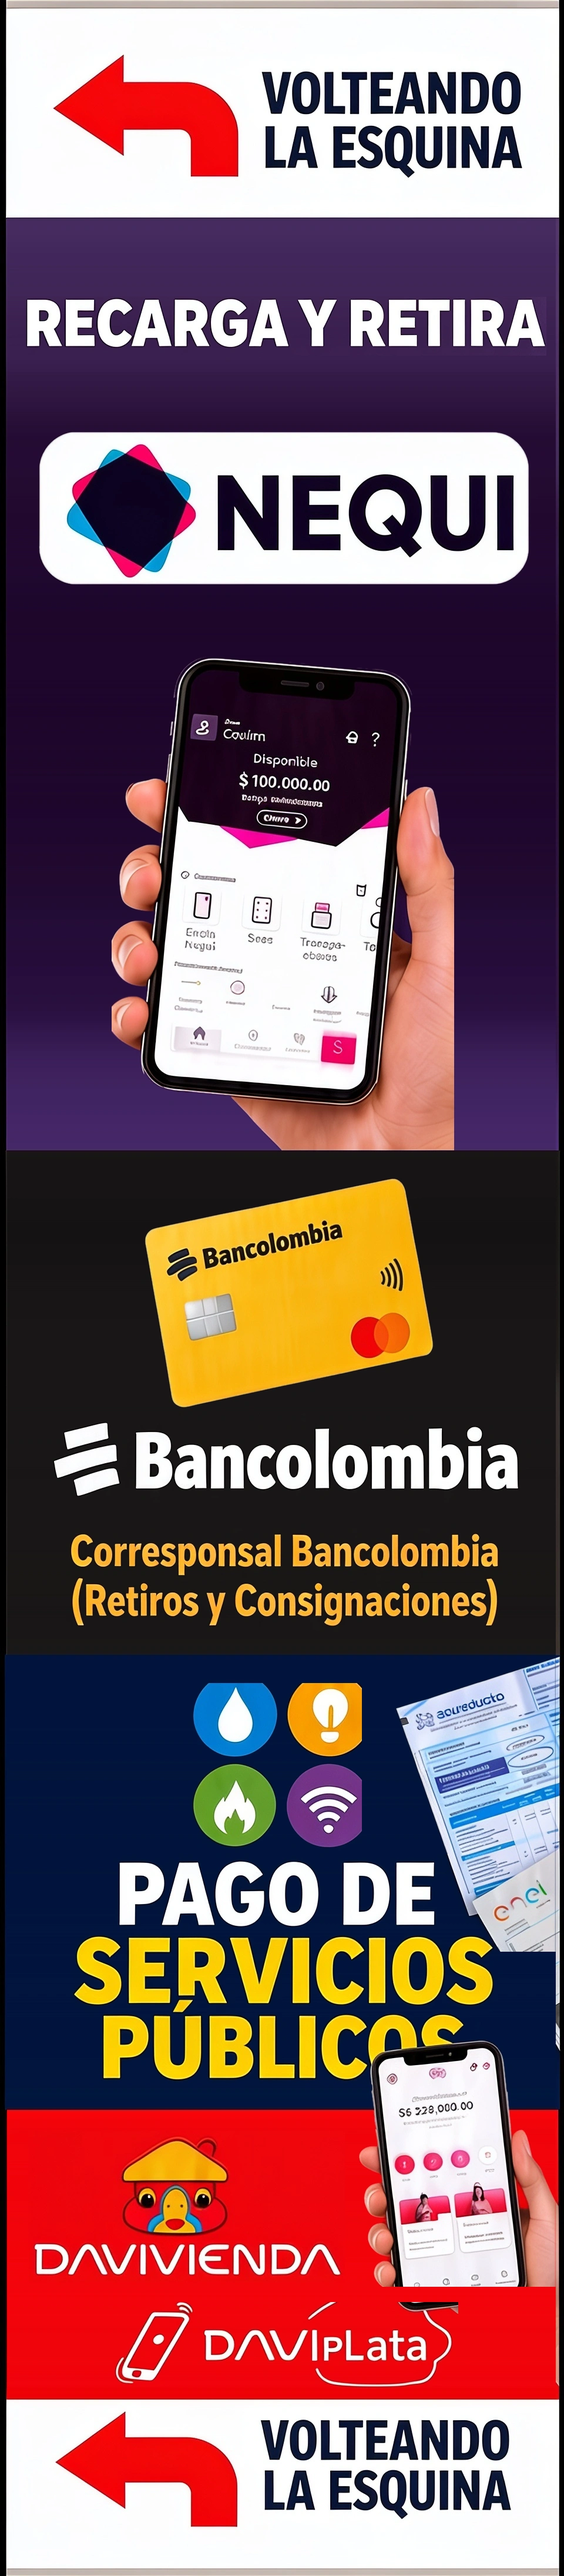
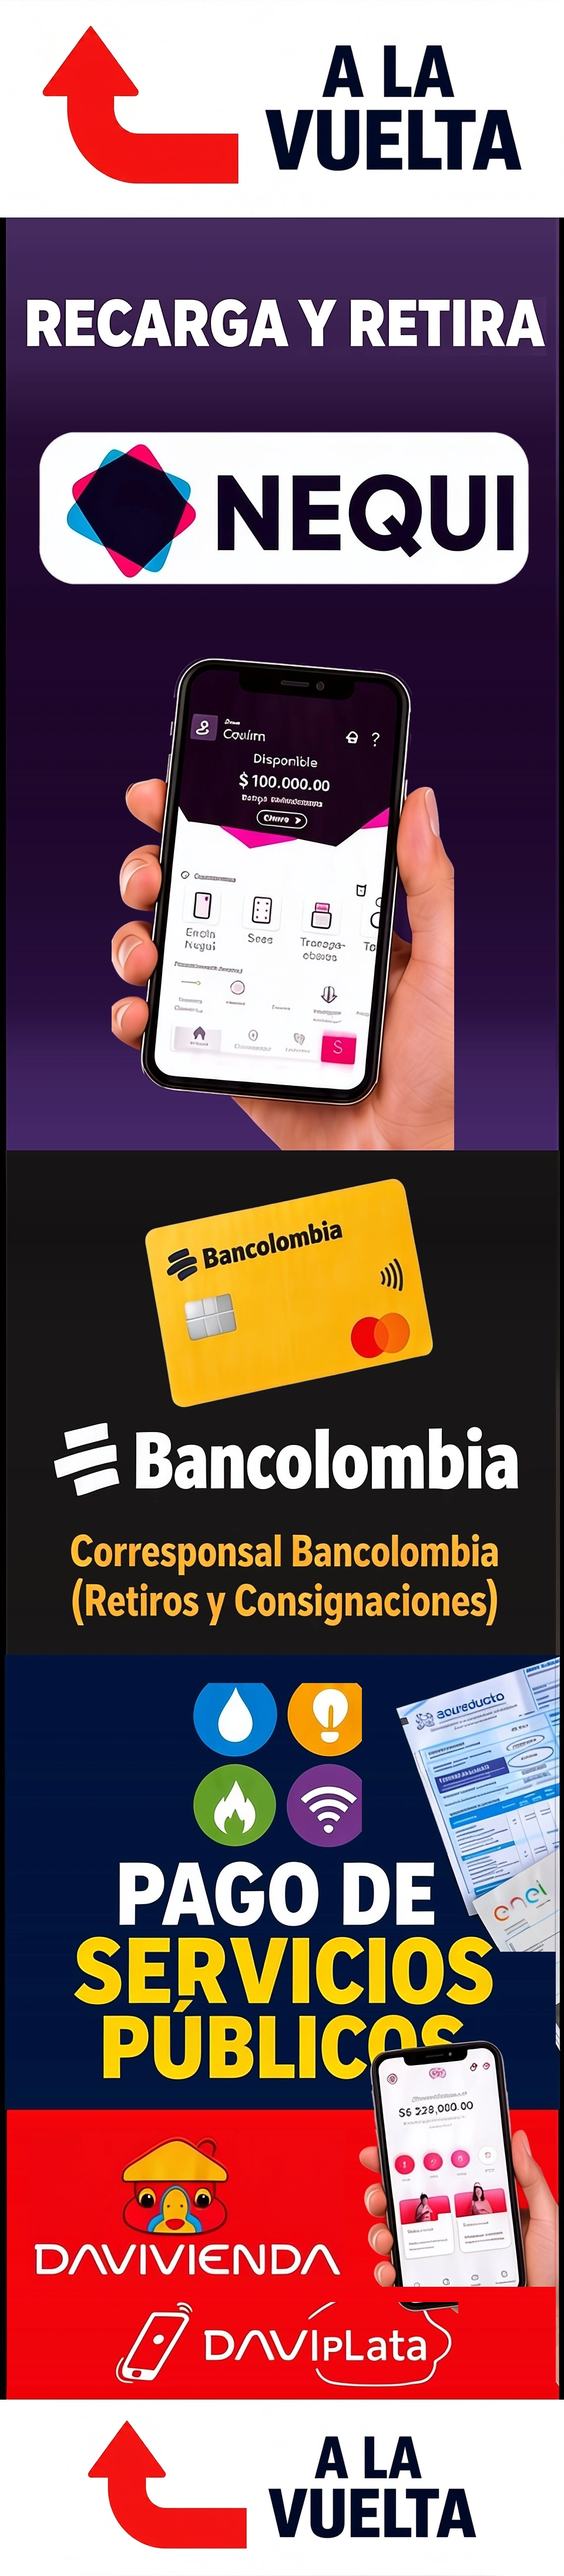
Group sign pieces by section with copy as image, and use the new "A la vuelta" arrow art in the top and bottom bands

Changed region(s): [[0.0, 0.9311, 1.0, 1.0], [0.0, 0.0, 1.0, 0.0931]]

diff --git a/tools/layout_editor/layout_editor.js b/tools/layout_editor/layout_editor.js
@@ -1,16 +1,18 @@
 import { layout_editor_styles } from './layout_editor.css.js';
-import { parts_catalog, sign_size, original_image } from './parts_catalog.js';
+import { parts_catalog, sections, sign_size, original_image } from './parts_catalog.js';
+import { render_section_blob } from './section_image.js';
 import { load_layout, save_layout, original_layout, parse_layout, describe_layout, ordered_names } from './layout_store.js';
 
 const template = /* html */ `
   <div class="viewport"><div class="sizer"><div class="stage"></div></div></div>
   <aside class="panel">
     <div class="row">
-      <label>Zoom <input class="zoom" type="range" min="0.1" max="1.5" step="0.05"></label>
+      <label>Zoom <input class="zoom" type="range" min="0.1" max="1.5" step="0.01"></label>
       <label><input class="show_reference" type="checkbox"> Original encima</label>
       <label><input class="move_backgrounds" type="checkbox"> Mover fondos</label>
     </div>
     <ul class="list"></ul>
+    <div class="row"><button class="copy_section primary">Copiar sección como imagen</button><span class="section_name">Ninguna sección elegida</span></div>
     <div class="selected_controls">
       <strong class="selected_name">Ninguna pieza elegida</strong>
       <div class="fields">
@@ -32,7 +34,9 @@ const template = /* html */ `
 export class LayoutEditor extends HTMLElement {
   #layout = load_layout();
   #selected_name = null;
+  #selected_section = null;
   #zoom = 0.3;
+  static viewport_padding = 32;
   #images = new Map();
 
   connectedCallback() {
@@ -40,6 +44,7 @@ export class LayoutEditor extends HTMLElement {
     this.shadowRoot.adoptedStyleSheets = [layout_editor_styles];
     this.shadowRoot.innerHTML = template;
     this.#build_stage();
+    this.#zoom = this.#zoom_to_fit_screen();
     this.#bind_controls();
     this.#refresh();
   }
@@ -71,6 +76,12 @@ export class LayoutEditor extends HTMLElement {
     return reference;
   }
 
+  // The whole sign fits the screen height until the person zooms in.
+  #zoom_to_fit_screen() {
+    const available_height = this.#element('.viewport').clientHeight - LayoutEditor.viewport_padding;
+    return Math.min(1.5, Math.max(0.1, Math.floor((available_height / sign_size.height) * 100) / 100));
+  }
+
   #bind_controls() {
     this.#element('.zoom').value = this.#zoom;
     this.#element('.zoom').addEventListener('input', (event) => { this.#zoom = Number(event.target.value); this.#refresh(); });
@@ -83,6 +94,7 @@ export class LayoutEditor extends HTMLElement {
     this.#element('.to_front').addEventListener('click', () => this.#edit_selected({ order: this.#extreme_order(Math.max) + 1 }));
     this.#element('.to_back').addEventListener('click', () => this.#edit_selected({ order: this.#extreme_order(Math.min) - 1 }));
     this.#element('.copy').addEventListener('click', () => this.#copy_instructions());
+    this.#element('.copy_section').addEventListener('click', () => this.#copy_section());
     this.#element('.reset').addEventListener('click', () => { this.#layout = original_layout(); this.#changed(); });
     this.#element('.load').addEventListener('click', () => this.#load_pasted());
     this.addEventListener('keydown', (event) => this.#nudge(event));
@@ -121,6 +133,7 @@ export class LayoutEditor extends HTMLElement {
 
   #select(name) {
     this.#selected_name = name;
+    this.#selected_section = parts_catalog.find((part) => part.name === name).section;
     this.#refresh();
     this.focus();
   }
@@ -165,12 +178,32 @@ export class LayoutEditor extends HTMLElement {
     image.style.transform = `scale(${placement.scale})`;
     image.style.display = placement.visible ? 'block' : 'none';
     image.classList.toggle('selected', part.name === this.#selected_name);
+    image.classList.toggle('in_section', part.section === this.#selected_section);
     image.classList.toggle('locked', part.is_background && !can_move_backgrounds);
   }
 
   #refresh_list() {
-    const list = this.#element('.list');
-    list.replaceChildren(...ordered_names(this.#layout).reverse().map((name) => this.#create_list_item(name)));
+    const items = sections.flatMap((section) => [this.#create_section_header(section), ...this.#section_names(section).map((name) => this.#create_list_item(name))]);
+    this.#element('.list').replaceChildren(...items);
+    this.#element('.section_name').textContent = this.#selected_section ?? 'Ninguna sección elegida';
+  }
+
+  #section_names(section) {
+    return ordered_names(this.#layout).filter((name) => section.pieces.includes(name)).reverse();
+  }
+
+  #create_section_header(section) {
+    const header = document.createElement('li');
+    header.className = section.title === this.#selected_section ? 'section_header selected' : 'section_header';
+    header.textContent = section.title;
+    header.addEventListener('click', () => this.#select_section(section));
+    return header;
+  }
+
+  #select_section(section) {
+    this.#selected_section = section.title;
+    this.#selected_name = null;
+    this.#refresh();
   }
 
   #create_list_item(name) {
@@ -206,6 +239,18 @@ export class LayoutEditor extends HTMLElement {
     } catch (clipboard_error) {
       this.#element('.import').value = describe_layout(this.#layout);
       this.#say('No pude copiar solo: el texto quedó en el cuadro de abajo, cópialo a mano.');
+    }
+  }
+
+  async #copy_section() {
+    if (!this.#selected_section) return this.#say('Elige una sección primero.');
+    const parts = parts_catalog.filter((part) => part.section === this.#selected_section);
+    try {
+      const blob = await render_section_blob(parts, this.#layout, this.#images);
+      await navigator.clipboard.write([new ClipboardItem({ 'image/png': blob })]);
+      this.#say(`Sección "${this.#selected_section}" copiada como imagen.`);
+    } catch (copy_error) {
+      this.#say(`No se pudo copiar la imagen: ${copy_error.message}`);
     }
   }
 

diff --git a/tools/layout_editor/section_image.js b/tools/layout_editor/section_image.js
@@ -1,0 +1,29 @@
+// Draws the visible pieces of one section, back to front, into a PNG cropped to the area they cover.
+export function render_section_blob(parts, layout, images) {
+  const placed = parts.filter((part) => layout[part.name].visible).sort((first, second) => layout[first.name].order - layout[second.name].order);
+  if (!placed.length) throw new Error('The section has no visible pieces');
+  const rectangles = placed.map((part) => rectangle_of(layout[part.name], images.get(part.name)));
+  const bounds = union_of(rectangles);
+  const canvas = new OffscreenCanvas(Math.ceil(bounds.right - bounds.left), Math.ceil(bounds.bottom - bounds.top));
+  const context = canvas.getContext('2d');
+  placed.forEach((part, index) => {
+    const { left, top, width, height } = rectangles[index];
+    context.drawImage(images.get(part.name), left - bounds.left, top - bounds.top, width, height);
+  });
+  return canvas.convertToBlob({ type: 'image/png' });
+}
+
+function rectangle_of(placement, image) {
+  const width = image.naturalWidth * placement.scale;
+  const height = image.naturalHeight * placement.scale;
+  return { left: placement.x, top: placement.y, width, height, right: placement.x + width, bottom: placement.y + height };
+}
+
+function union_of(rectangles) {
+  return {
+    left: Math.min(...rectangles.map((rectangle) => rectangle.left)),
+    top: Math.min(...rectangles.map((rectangle) => rectangle.top)),
+    right: Math.max(...rectangles.map((rectangle) => rectangle.right)),
+    bottom: Math.max(...rectangles.map((rectangle) => rectangle.bottom)),
+  };
+}

diff --git a/tools/layout_editor/layout_editor.css.js b/tools/layout_editor/layout_editor.css.js
@@ -6,6 +6,7 @@ layout_editor_styles.replaceSync(/* css */ `
   .sizer { margin: 0 auto; }
   .stage { position: relative; background: #fff; transform-origin: top left; box-shadow: 0 2px 12px rgba(0, 0, 0, 0.3); }
   .stage img { position: absolute; transform-origin: top left; user-select: none; -webkit-user-drag: none; cursor: grab; }
+  .stage img.in_section { outline: 4px dashed #00a8ff; }
   .stage img.selected { outline: 6px solid #00a8ff; }
   .stage img.locked { cursor: default; }
   .stage img.reference { opacity: 0.45; pointer-events: none; outline: 4px dashed #f0f; }
@@ -16,11 +17,13 @@ layout_editor_styles.replaceSync(/* css */ `
   button.primary { background: #1a73e8; color: #fff; border-color: #1a73e8; }
   ul { list-style: none; margin: 0; padding: 0; display: flex; flex-direction: column; gap: 2px; }
   li { display: flex; gap: 6px; align-items: center; padding: 4px 6px; border-radius: 6px; cursor: pointer; }
+  li.section_header { margin-top: 8px; font-weight: 700; background: #eef0f5; }
   li.selected { background: #dff0ff; }
   li span { flex: 1; overflow: hidden; text-overflow: ellipsis; white-space: nowrap; }
   .fields { display: grid; grid-template-columns: repeat(3, 1fr); gap: 6px; }
   .fields label { display: flex; flex-direction: column; font-size: 12px; gap: 2px; }
   input[type=number] { width: 100%; box-sizing: border-box; }
   textarea { width: 100%; box-sizing: border-box; min-height: 60px; }
+  .section_name { font-size: 12px; color: #555; }
   .message { font-size: 12px; color: #555; min-height: 1.2em; }
 `);

diff --git a/tools/layout_editor/parts_catalog.js b/tools/layout_editor/parts_catalog.js
@@ -29,7 +29,20 @@ const pieces = [
   ['fotos', 'celular_davivienda', 605, 3520],
 ];
 
+// Sections of the sign from top to bottom; each lists the pieces that belong to it.
+export const sections = [
+  { title: '1. flecha superior', pieces: ['01_flecha_superior'] },
+  { title: '2. nequi', pieces: ['02_nequi', 'texto_recarga', 'logo_nequi', 'celular_nequi'] },
+  { title: '3. bancolombia', pieces: ['03_bancolombia', 'tarjeta_bancolombia', 'logo_bancolombia', 'texto_corresponsal'] },
+  { title: '4. servicios', pieces: ['iconos_servicios', 'facturas'] },
+  { title: '5. servicios_publicos', pieces: ['04_servicios_publicos', 'texto_pago_servicios'] },
+  { title: '6. davivienda', pieces: ['05_davivienda', 'logo_davivienda', 'logo_daviplata', 'celular_davivienda'] },
+  { title: '7. flecha inferior', pieces: ['06_flecha_inferior'] },
+];
+
+const section_of = Object.fromEntries(sections.flatMap((section) => section.pieces.map((name) => [name, section.title])));
+
 export const parts_catalog = [
   ...bands.map(([name, y]) => ({ name, source: `${base_folder}/fondos/${name}.webp`, x: 0, y, is_background: true })),
   ...pieces.map(([folder, name, x, y]) => ({ name, source: `${base_folder}/${folder}/${name}.webp`, x, y: y - sign_top, is_background: false })),
-];
+].map((part) => ({ ...part, section: section_of[part.name] }));

diff --git a/tools/cut_sign_parts.py b/tools/cut_sign_parts.py
@@ -19,6 +19,8 @@ BAND_ENDS = [430, 2017, 2878, 3649, 4142, SIGN_BOTTOM]
 BAND_NAMES = ["flecha_superior", "nequi", "bancolombia", "servicios_publicos", "davivienda", "flecha_inferior"]
 # Bands whose background is rebuilt row by row; the two white ones are kept whole.
 REBUILT_BANDS = [1, 2, 3, 4]
+# Bands replaced by new art (the originals are kept in fuentes/); cutting must not bring the old one back.
+REPLACED_BANDS = {"flecha_superior", "flecha_inferior"}
 
 # name: (folder, left, top, right, bottom, how it is cut)
 PARTS = {
@@ -134,6 +136,8 @@ class SignPartCutter:
         (self.output / "fondos").mkdir(parents=True, exist_ok=True)
         starts = [SIGN_TOP, *BAND_ENDS[:-1]]
         for number, name in enumerate(BAND_NAMES, start=1):
+            if name in REPLACED_BANDS:
+                continue
             band = backgrounds[starts[number - 1]:BAND_ENDS[number - 1]]
             Image.fromarray(band).save(self.output / "fondos" / f"{number:02d}_{name}.webp", lossless=True)
 
